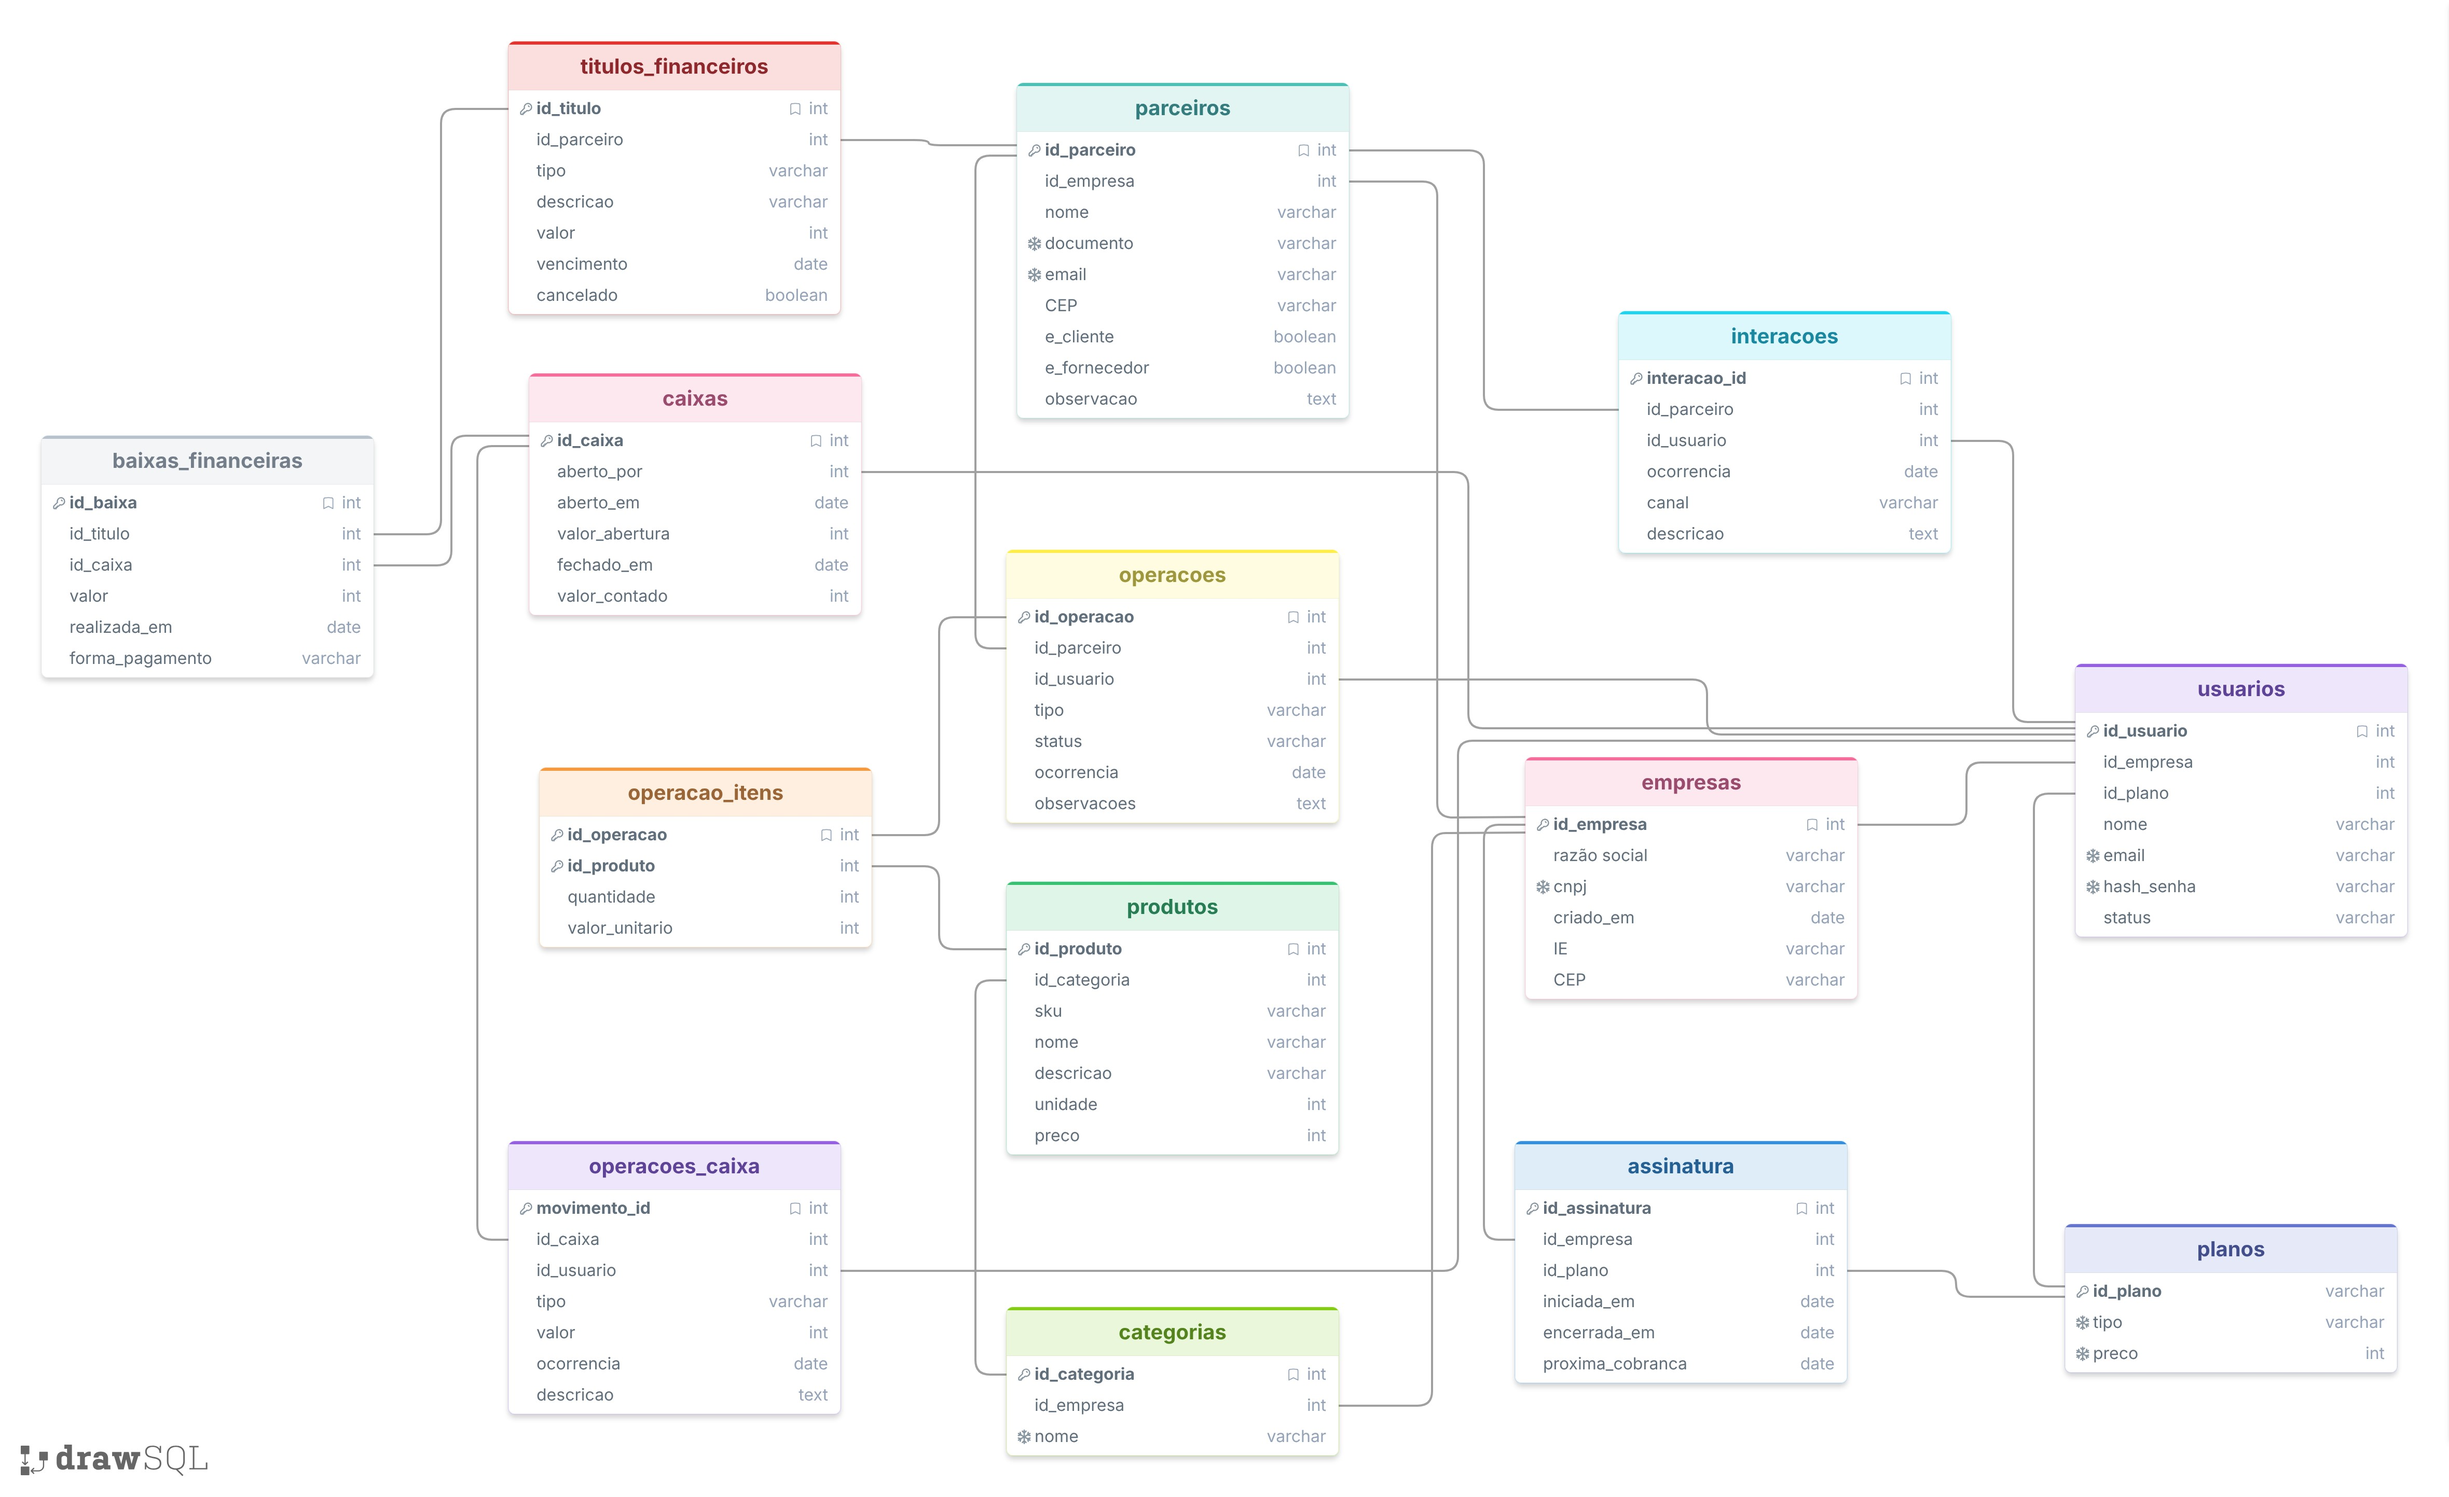
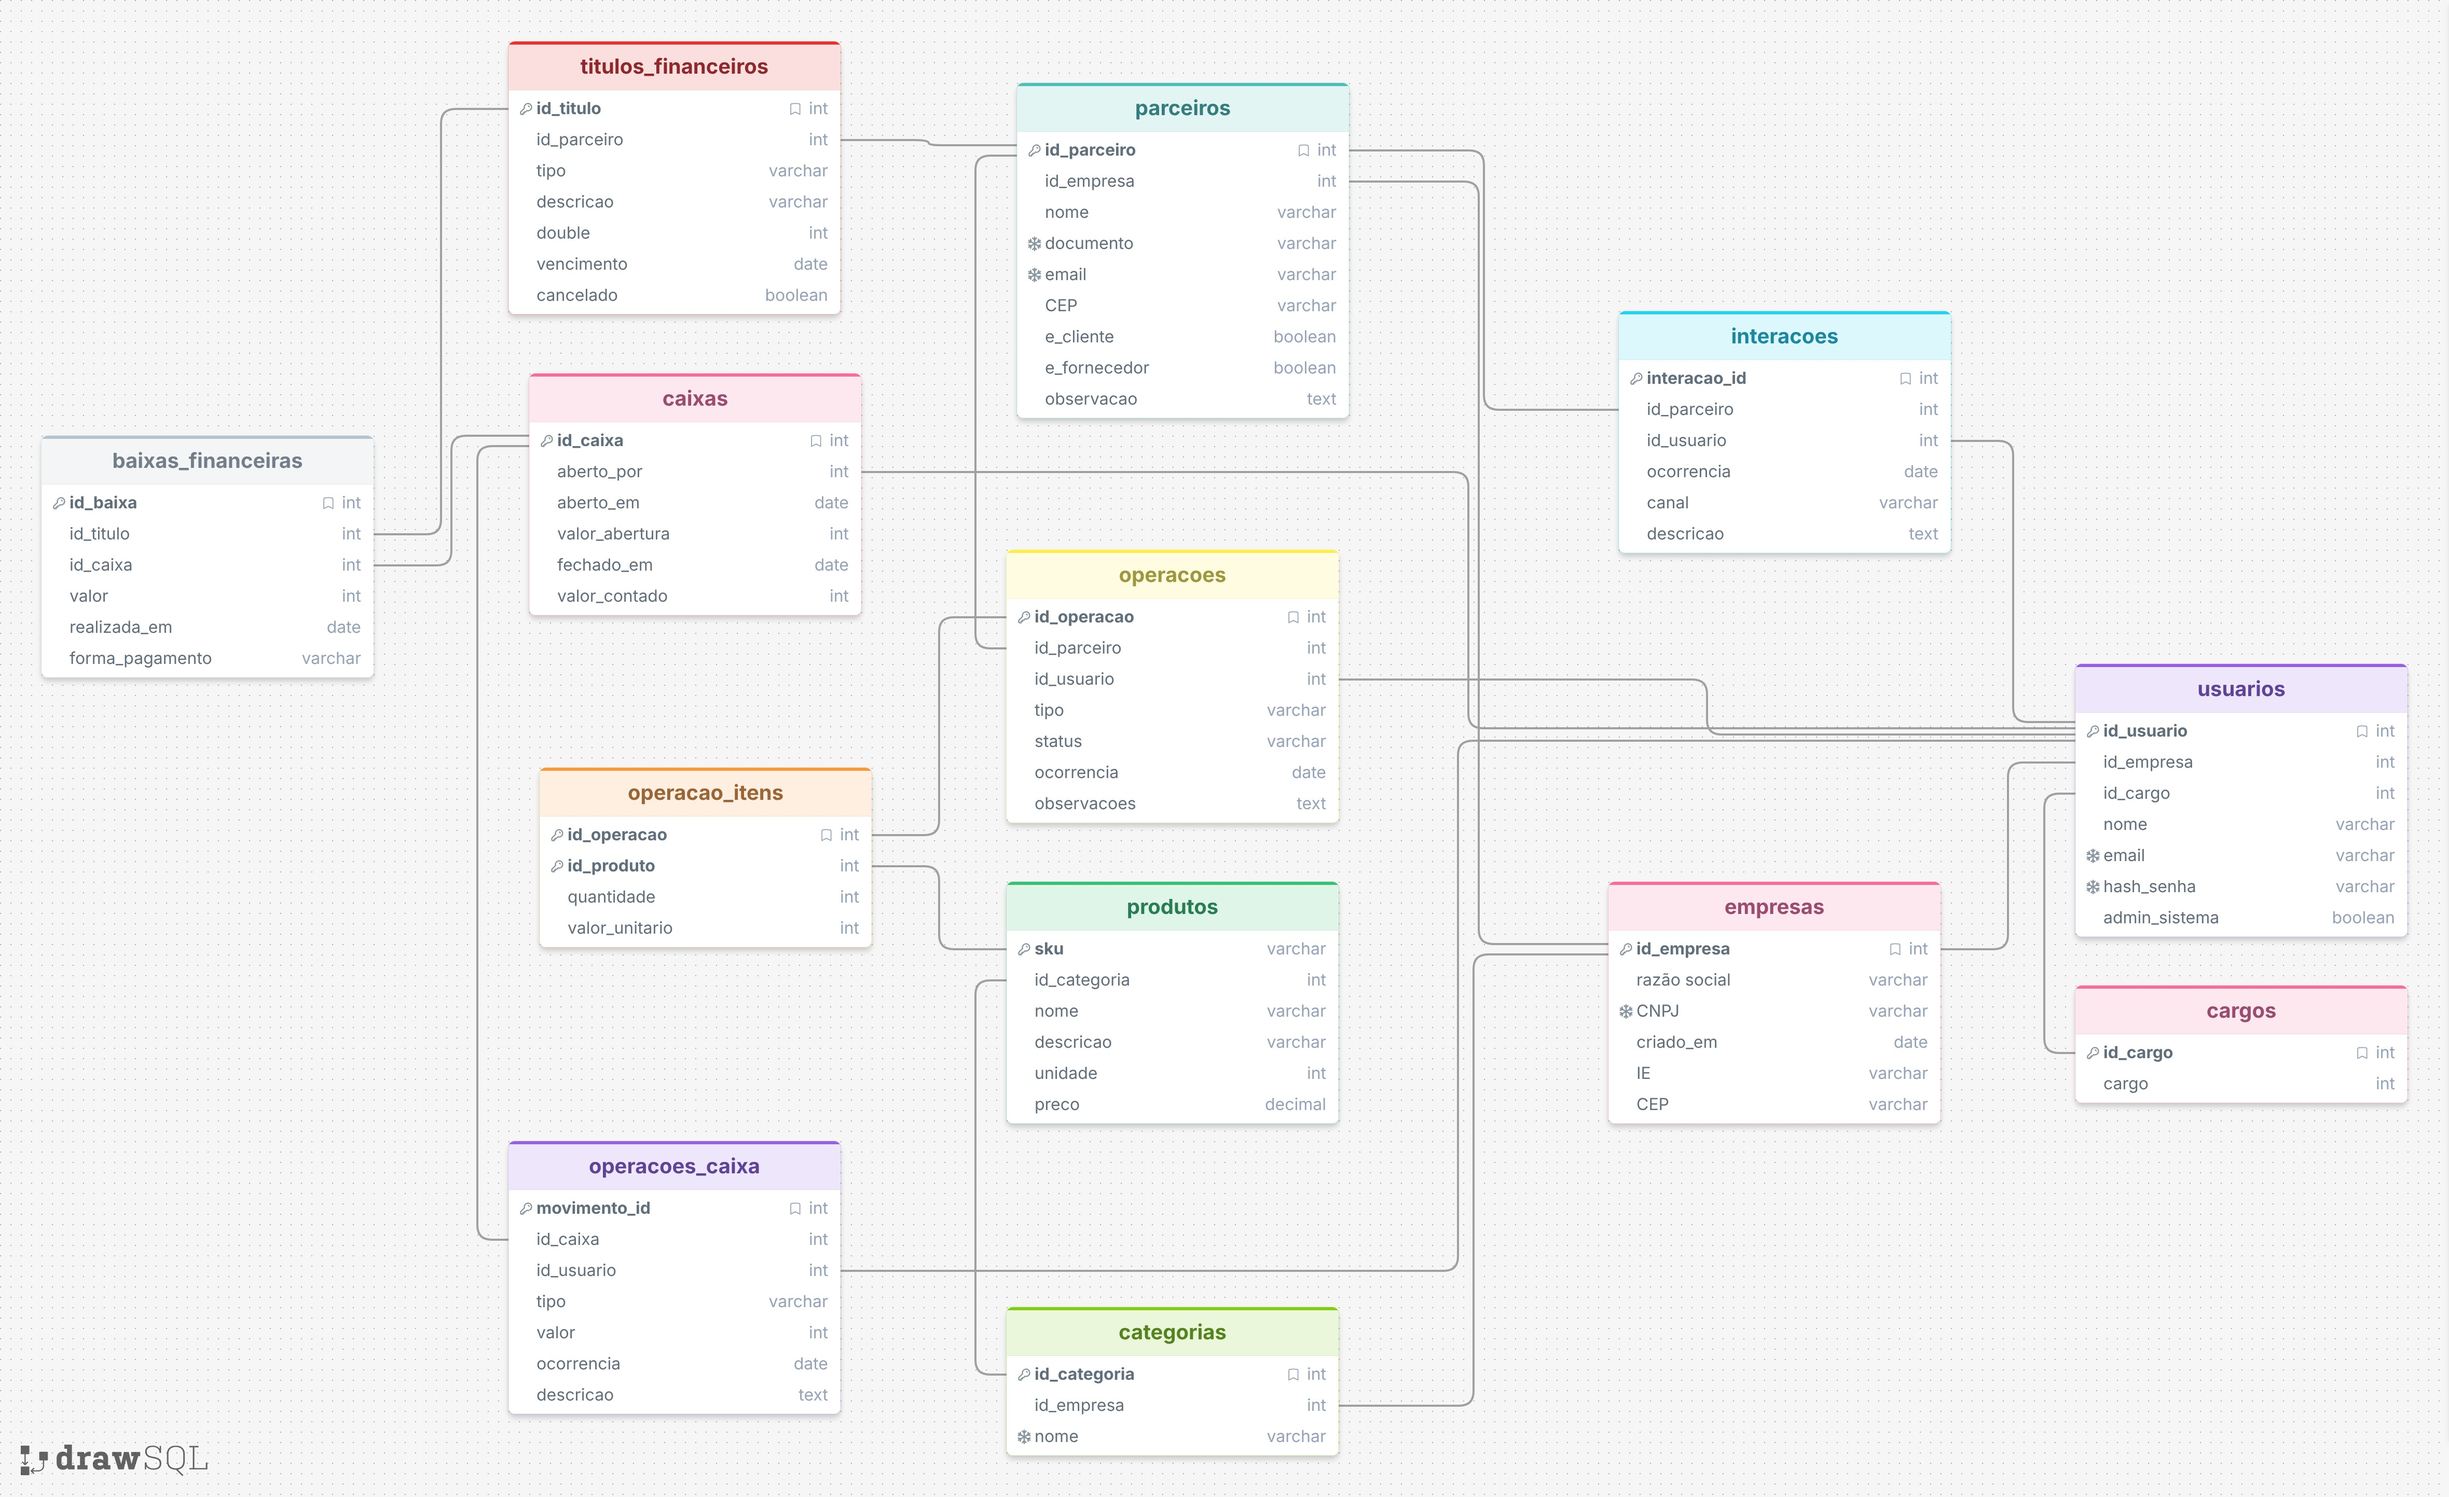
Fixed BD planning

diff --git a/crm-estoque/docs/banco_de_dados.md b/crm-estoque/docs/banco_de_dados.md
@@ -1,12 +1,12 @@
 # Schema: schema1
 Database: mysql
-Tables: 14
+Tables: 13
 Columns are NOT NULL unless marked nullable.
 
 ## empresas
 id_empresa: int PK auto FK
 razão social: varchar
-cnpj: varchar unique
+CNPJ: varchar unique
 criado_em: date
 IE: varchar
 CEP: varchar
@@ -14,24 +14,11 @@ CEP: varchar
 ## usuarios
 id_usuario: int PK auto FK unsigned
 id_empresa: int
-id_plano: int FK
+id_cargo: int FK
 nome: varchar
 email: varchar unique
 hash_senha: varchar unique
-status: varchar
-
-## planos
-id_plano: varchar PK
-tipo: varchar unique
-preco: int unique
-
-## assinatura
-id_assinatura: int PK auto unsigned
-id_empresa: int
-id_plano: int FK
-iniciada_em: date
-encerrada_em: date
-proxima_cobranca: date
+admin_sistema: boolean
 
 ## parceiros
 id_parceiro: int PK auto FK unsigned
@@ -58,13 +45,12 @@ id_empresa: int
 nome: varchar unique
 
 ## produtos
-id_produto: int PK auto FK unsigned
+sku: varchar PK
 id_categoria: int
-sku: varchar
 nome: varchar
 descricao: varchar
 unidade: int
-preco: int
+preco: decimal
 
 ## operacoes
 id_operacao: int PK auto FK unsigned
@@ -77,7 +63,7 @@ observacoes: text
 
 ## operacao_itens
 id_operacao: int PK auto unsigned
-id_produto: int PK
+id_produto: int PK FK
 quantidade: int
 valor_unitario: int
 
@@ -86,7 +72,7 @@ id_titulo: int PK auto FK unsigned
 id_parceiro: int
 tipo: varchar
 descricao: varchar
-valor: int
+double: int
 vencimento: date
 cancelado: boolean
 
@@ -115,11 +101,12 @@ valor: int
 ocorrencia: date
 descricao: text
 
+## cargos
+id_cargo: int PK auto unsigned
+cargo: int
+
 ## Relationships
 usuarios.id_empresa → empresas.id_empresa (one-to-one)
-planos.id_plano → usuarios.id_plano (one-to-one)
-assinatura.id_empresa → empresas.id_empresa (one-to-one)
-planos.id_plano → assinatura.id_plano (one-to-one)
 parceiros.id_empresa → empresas.id_empresa (one-to-one)
 interacoes.id_parceiro → parceiros.id_parceiro (one-to-one)
 interacoes.id_usuario → usuarios.id_usuario (one-to-one)
@@ -128,13 +115,14 @@ produtos.id_categoria → categorias.id_categoria (one-to-one)
 operacoes.id_parceiro → parceiros.id_parceiro (one-to-one)
 operacoes.id_usuario → usuarios.id_usuario (one-to-one)
 operacao_itens.id_operacao → operacoes.id_operacao (one-to-one)
-operacao_itens.id_produto → produtos.id_produto (one-to-one)
+operacao_itens.id_produto → produtos.sku (one-to-one)
 titulos_financeiros.id_parceiro → parceiros.id_parceiro (one-to-one)
 baixas_financeiras.id_titulo → titulos_financeiros.id_titulo (one-to-one)
 baixas_financeiras.id_caixa → caixas.id_caixa (one-to-one)
 caixas.aberto_por → usuarios.id_usuario (one-to-one)
 operacoes_caixa.id_caixa → caixas.id_caixa (one-to-one)
 operacoes_caixa.id_usuario → usuarios.id_usuario (one-to-one)
+cargos.id_cargo → usuarios.id_cargo (one-to-one)
 
 ---
 If you suggest changes to this schema, ALSO return them as a DrawSQL patch: one fenced ```json code block, so I can apply them to my diagram. If you are only answering a question, skip the patch.
